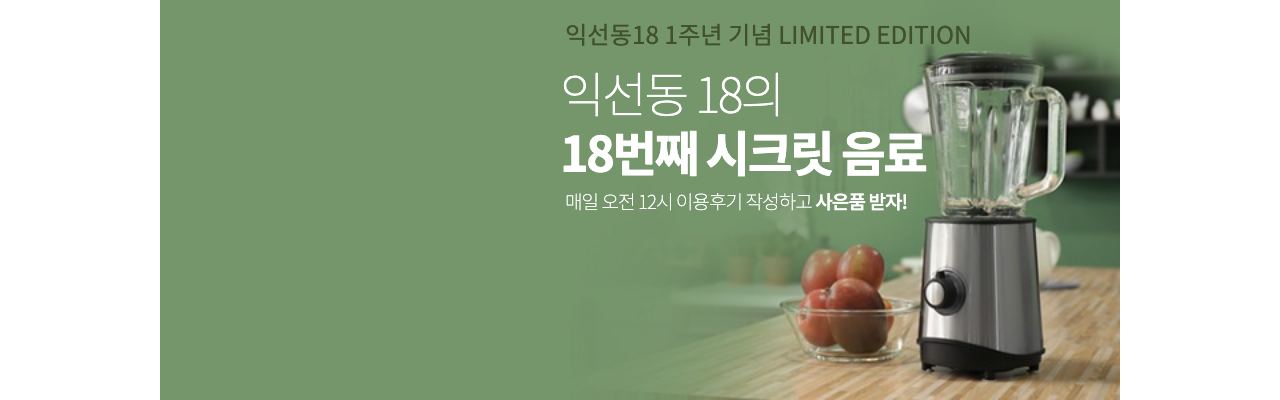
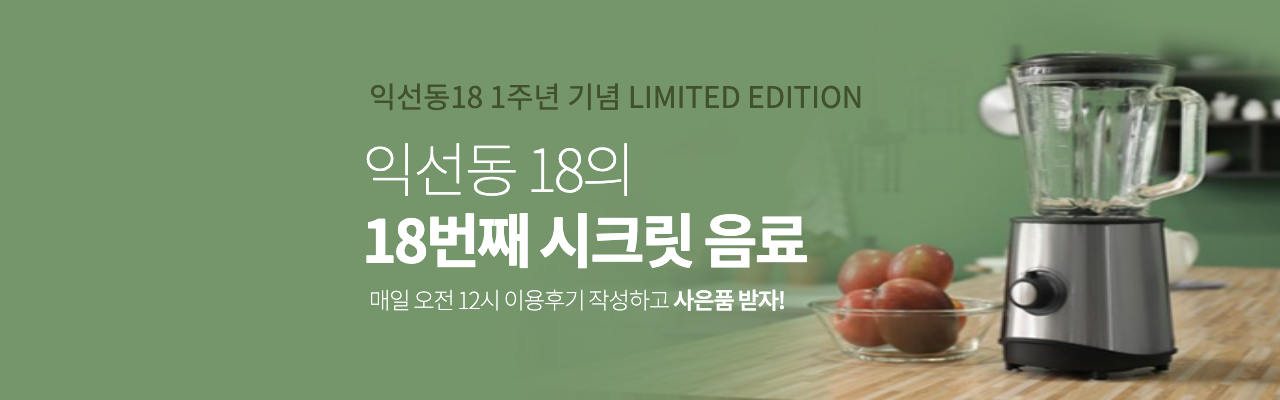
Fix: Slider 이미지 교체와 discounted product 로직 수정

diff --git a/src/components/DiscountedProduct/DiscountedProduct.scss b/src/components/DiscountedProduct/DiscountedProduct.scss
@@ -1,20 +1,17 @@
 .DiscountedProduct {
-  padding-bottom: 80px;
-
-  .discountedProductContainer {
+  .discountedProductWrap {
     width: 100%;
     background-color: white;
     cursor: pointer;
 
-    .discountedProductTitle {
+    .title {
       display: flex;
       justify-content: center;
       align-items: center;
       width: 1100px;
       margin: 0 auto;
-      padding-top: 20px;
-      padding-bottom: 20px;
-      color: rgb(82, 81, 81);
+      padding: 20px 0;
+      color: rgb(105, 105, 105);
       text-align: center;
       font-size: 2.2em;
       font-weight: 900;
@@ -30,79 +27,65 @@
       grid-template-columns: 1fr 1fr;
       width: 1100px;
       height: 320px;
-      overflow: hidden;
       margin: 0 auto;
       background-color: white;
       border: 1px solid #ddd;
       border-radius: 12px;
+      overflow: hidden;
       
       img {
         width: 100%;
-        height: 100%;
-        overflow: hidden;
+        height: auto;
         border-top-left-radius: 8px;
         border-bottom-left-radius: 8px;
+        overflow: hidden;
       }
 
       ul {
-        display: table-cell;
-        overflow: hidden;
-        vertical-align: middle;
-        width: 494px;
-        height: 279px;
         padding: 20px;
+        text-align: left;
+        overflow: hidden;
 
         .timer {
-          display: block;
           margin: 0px 10px 15px 0px;
           color: #AB4BA5;
-          text-align: left;
           font-size: 35px;
-          max-height: 1.3em;
-          line-height: 1.25em;
+          line-height: 1.3em;
           font-weight: 700; 
         }
 
         .name {
-          display: block;
-          margin: 15px 9px 5px 0px;
-          padding-bottom: 40px;
-          overflow: hidden;
+          margin: 15px 9px 30px 0px;
           color: #333;
           text-align: left;
           font-size: 28px;
-          max-height: 72px;
           text-overflow: ellipsis;
           line-height: 1.3em;
           font-weight: 400;
-          letter-spacing: -0.03em;
+          overflow: hidden;
         }
         
         .discountRate {
-          overflow: hidden;
-          float: left;
+          display: inline-block;
           vertical-align: middle;
           width: 60px;
           height: 60px;
           margin: -14px 10px 0px 0px;
-          border-radius: 80px;
           color: #fff;
           background: #AB4BA5;
-          text-align: right;
+          border-radius: 80px;
           font-weight: 700;
           font-size: 24px;
-          letter-spacing: -0.03em;
           text-align: center;
-          line-height: 59px;
+          line-height: 59px; 
+          overflow: hidden;
         }
 
         .discountedPrice {
           display: inline-block;
           padding-left: 3px;
-          color: #111;
           font-weight: 700;
           font-size: 29px;
-          letter-spacing: -0.05em;
           font-weight: 700;
         }
 
@@ -118,31 +101,37 @@
         .delivery {
           display: flex;
           margin-top: 40px;
+
           ul {
             padding: 0;
           }
+
           li {
             display: inline-block;
             margin-right: 7px;
             padding: 5px 3px;
             border: 1px solid;
             font-weight: 400;
-            font-size: 0.95em;
+            font-size: 0.9em;
             font-weight: 600;
           }
+
           .isFree {
             color: white;
             border-color: black;
             background: black;
           }
+
           .isDashin {
             color: #AB4BA5;;
             border-color: #AB4BA5;
           }
+
           .isCool {
             color: #4bb6e3;
             border-color: #65c1e7;
           }
+          
           .isBasic {
             color: grey;
             border-color: grey;

diff --git a/src/components/DiscountedProduct/DiscountedProduct.js b/src/components/DiscountedProduct/DiscountedProduct.js
@@ -11,6 +11,7 @@ class DiscountedProduct extends Component {
       product: {},
     };
   }
+
   componentDidMount() {
     fetch('http://localhost:3000/data/discountedinfo.json')
       .then(res => res.json())
@@ -19,16 +20,16 @@ class DiscountedProduct extends Component {
           product: data.DATA,
         });
       });
-    //데이터 받을 때 date_format(updated_At, '/%m/%d/%Y')
   }
 
   render() {
     const { product } = this.state;
+    const link = '/product/' + product.id;
     return (
       <div className="DiscountedProduct">
-        <Link to="/">
-          <div className="discountedProductContainer">
-            <div className="discountedProductTitle">
+        <Link to={link}>
+          <div className="discountedProductWrap">
+            <div className="title">
               <img alt="dart icon" src={dart} />
               <h1>런칭특가</h1>
             </div>
@@ -37,7 +38,7 @@ class DiscountedProduct extends Component {
               <ul>
                 <li className="timer">
                   <CountDownTimer
-                    date={product.updated_at}
+                    date={product.expire_date}
                     text="특가 행사가 종료되었습니다 ˃̩̩̥ɷ˂̩̩̥"
                   />
                 </li>

diff --git a/src/components/DiscountedProduct/CountDownTimer.js b/src/components/DiscountedProduct/CountDownTimer.js
@@ -10,8 +10,8 @@ class CountDownTimer extends Component {
   };
 
   componentDidMount() {
-    setInterval(() => {
-      let eventDate = +new Date(this.props.date);
+    this.interval = setInterval(() => {
+      const eventDate = +new Date(this.props.date);
       let difference = eventDate - +new Date();
       if (difference < 1) {
         this.setState({ timeUp: true });
@@ -28,6 +28,10 @@ class CountDownTimer extends Component {
         });
       }
     }, 1000);
+  }
+
+  componentWillUnmount() {
+    clearInterval(this.setInterval);
   }
 
   render() {
